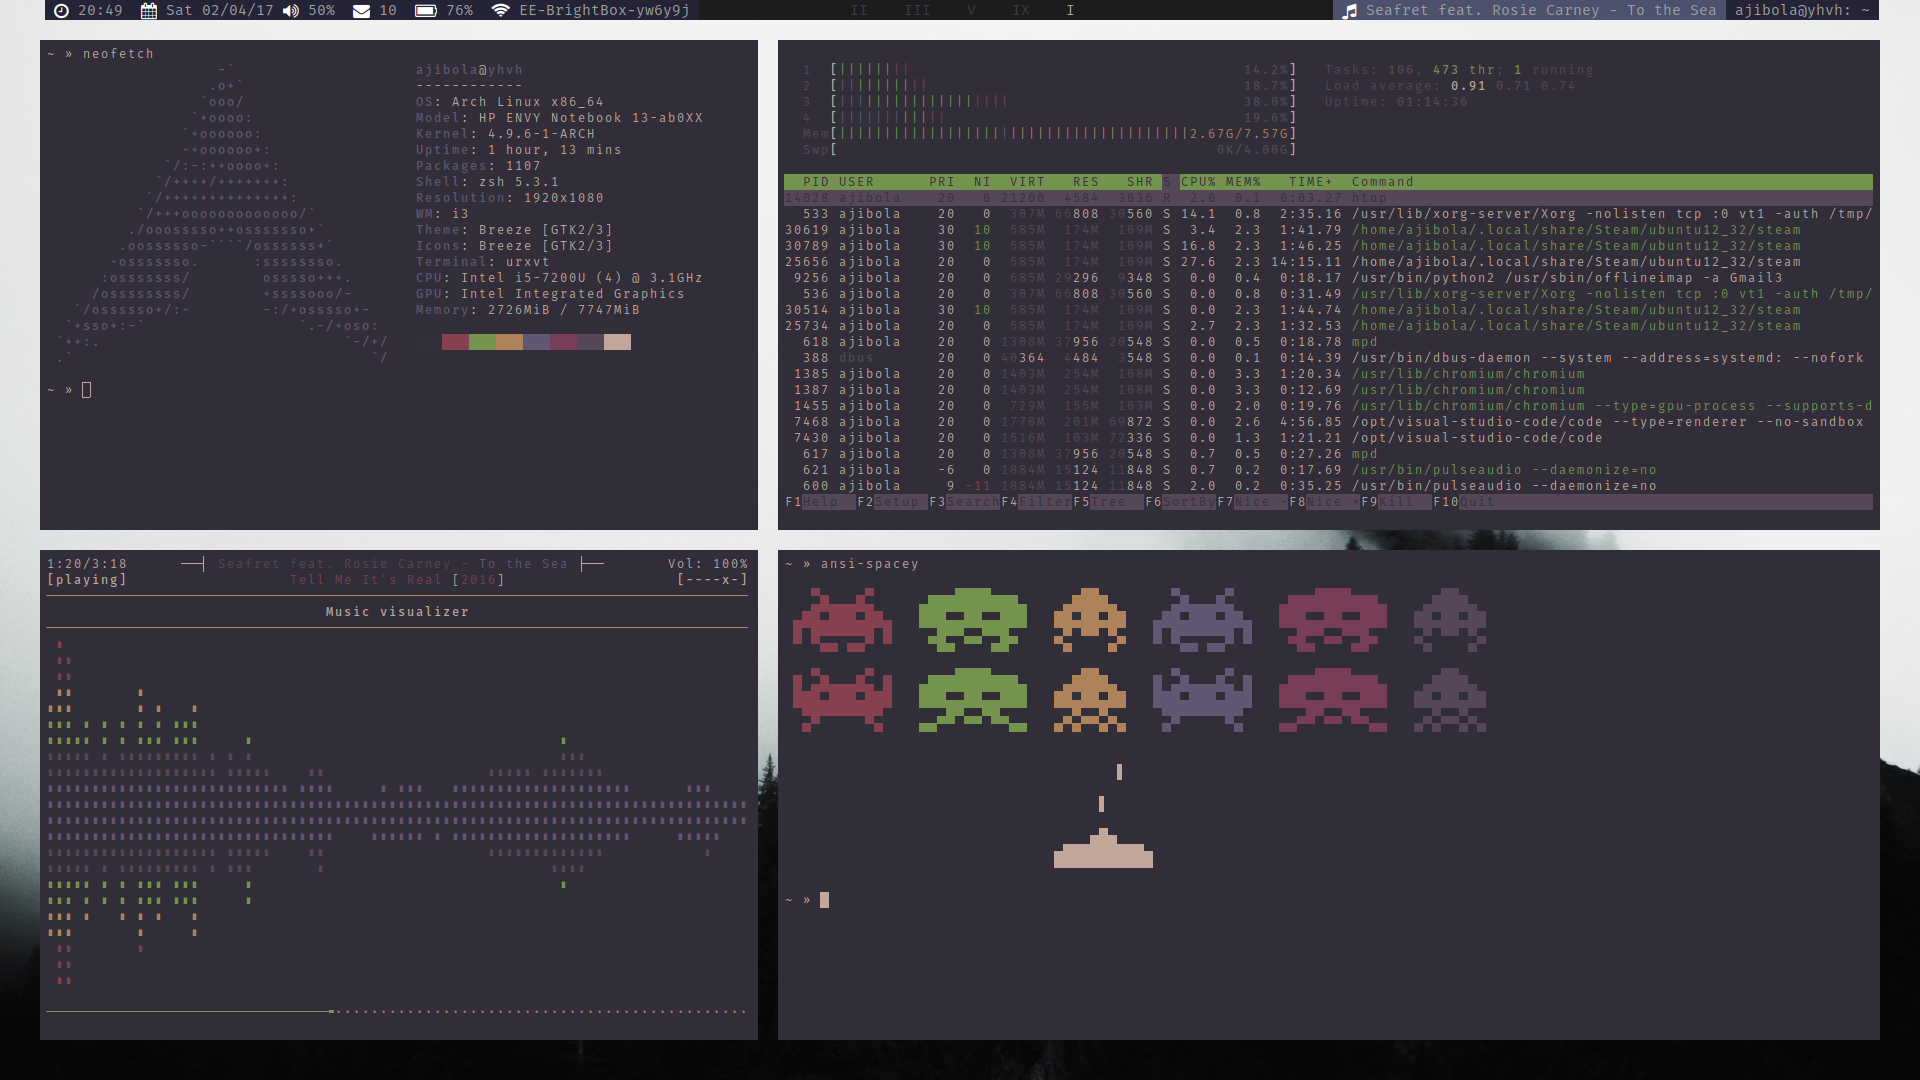
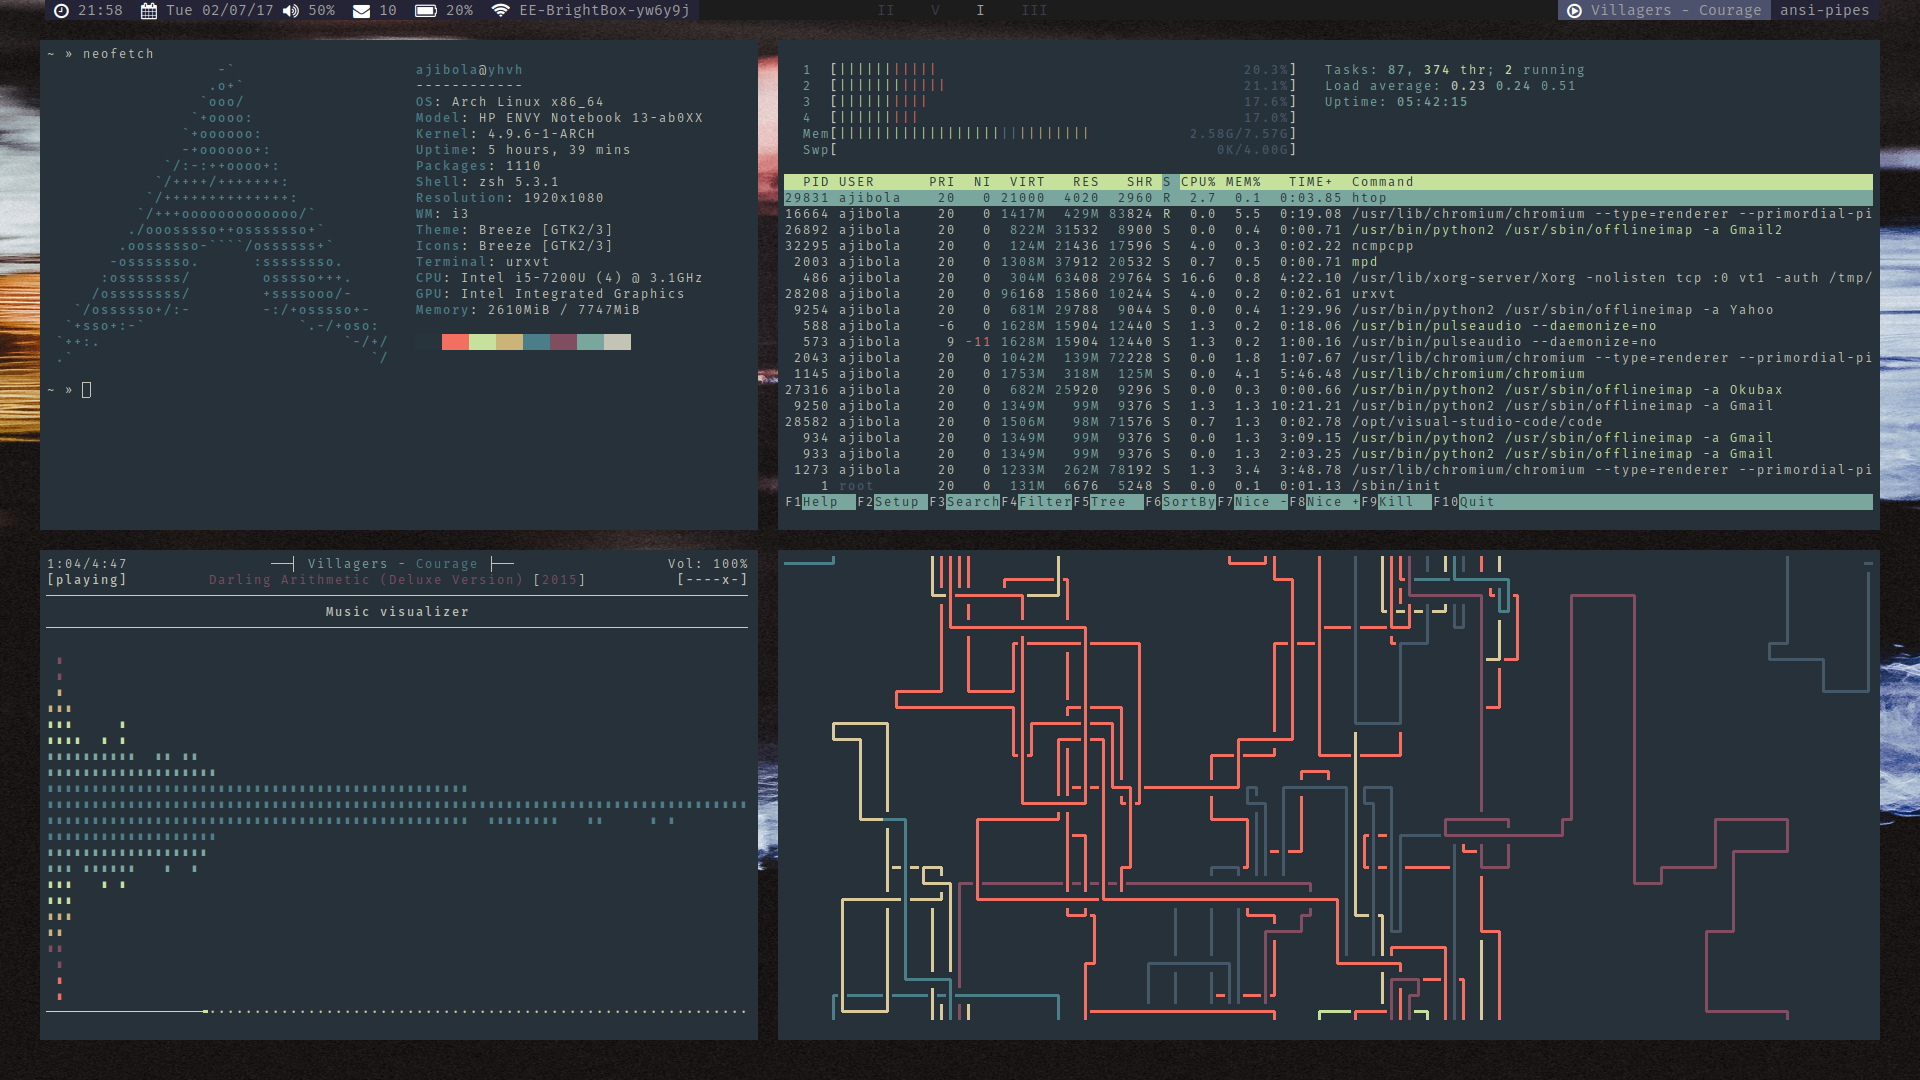
new screenshots

diff --git a/README.md b/README.md
@@ -61,12 +61,12 @@ cd dotfiles
 
 ![Screenshot](/screenshot.png)
 ![Screenshot2](/screenshot2.png)
-color scheme: [urban](/Xresources.d/colors/urban)
+color scheme: [prevail](/Xresources.d/colors/prevail)
 
 
 ### Wallpaper
 
-Wallpaper from [Unsplash](https://unsplash.com/@danieltong?photo=dND3d2rPVc8)
+Wallpaper from [Unsplash](https://unsplash.com/@joshua?photo=3qFbe7PUlx0)
 
 
 &nbsp;
